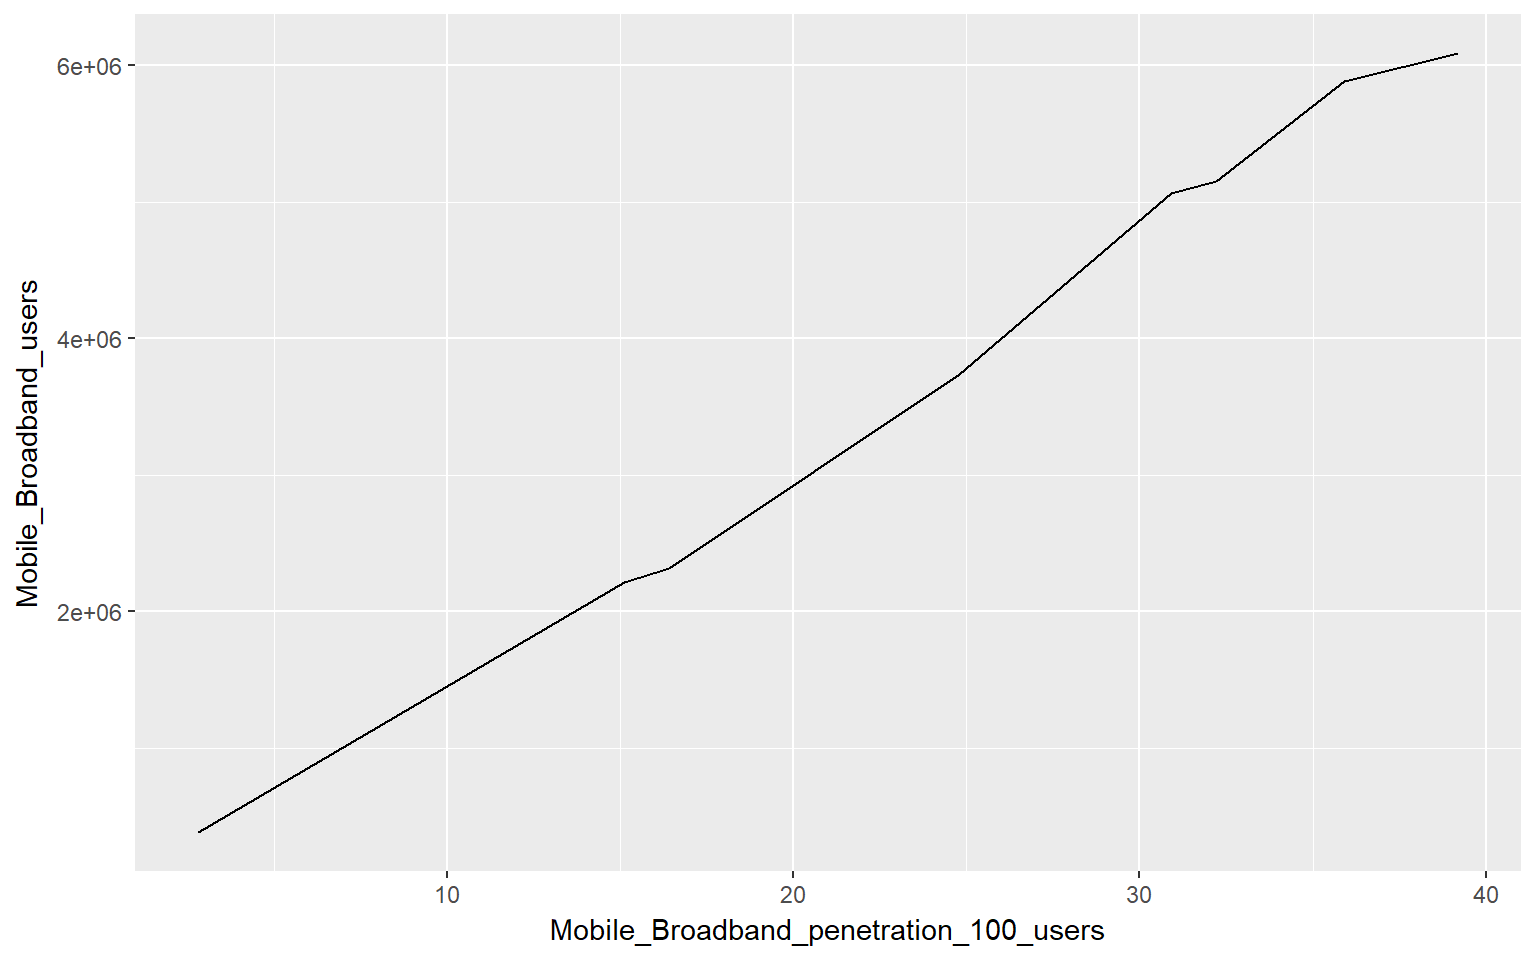
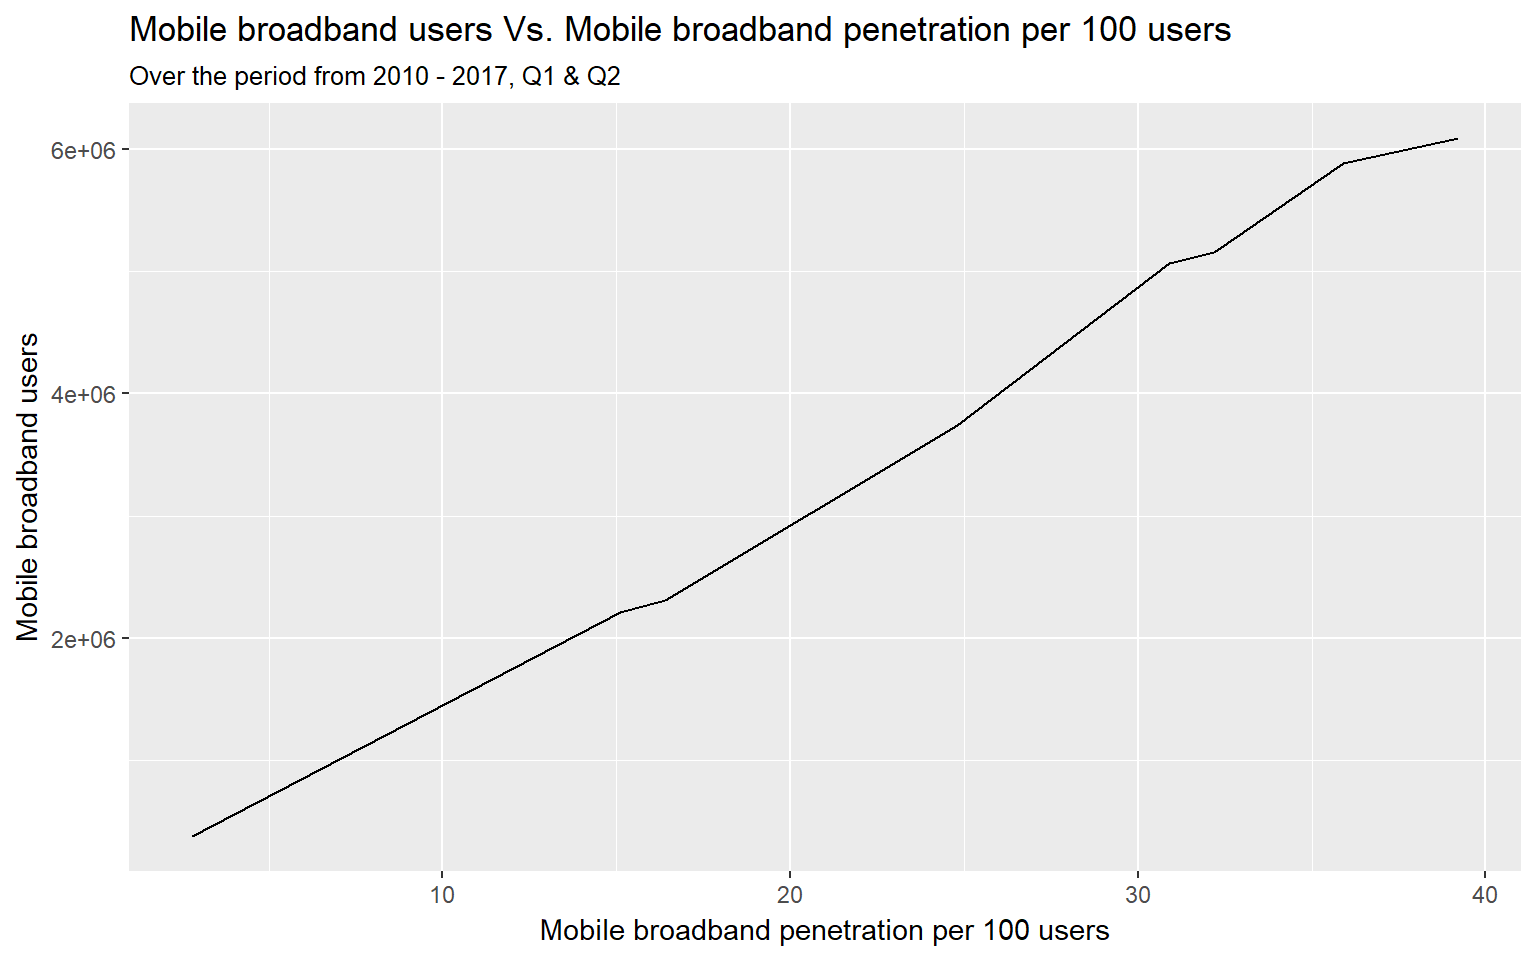
new post

diff --git a/content/post/2017-09-27-mobile-and-internet-penetration-in-zambia.html b/content/post/2017-09-27-mobile-and-internet-penetration-in-zambia.html
@@ -68,9 +68,9 @@ head(network_coverage, 4)</code></pre>
 ## [16] &quot;SMS_MMS_traffic&quot;                                
 ## [17] &quot;Minutes_of_use_Monthly&quot;                         
 ## [18] &quot;Voice_on_net_peak_Mobile&quot;                       
-## [19] &quot;Voice_on_net_of_ peak_Mobile&quot;                   
+## [19] &quot;Voice_on_net_off_peak_Mobile&quot;                   
 ## [20] &quot;Voice_off_net_peak_Mobile&quot;                      
-## [21] &quot;Voice_off_net_off_peak _Mobile&quot;                 
+## [21] &quot;Voice_off_net_off_peak_Mobile&quot;                  
 ## [22] &quot;Voice_on_net_peak_Fixed&quot;                        
 ## [23] &quot;Voice_on_net_off_peak_Fixed&quot;                    
 ## [24] &quot;Voice_off_net_peak_Fixed&quot;                       
@@ -221,9 +221,9 @@ ggplot() +
 <pre class="r"><code>network_cover &lt;-  network_coverage %&gt;% 
   select(Year, Airtel_Zambia, MTN_Zambia, Zamtel) 
 knitr::kable(network_cover, booktabs = TRUE, 
-             caption = &quot;Percentage network coverage by Operator&quot;)  </code></pre>
+             caption = &quot;Percentage network coverage by operator&quot;)  </code></pre>
 <table>
-<caption><span id="tab:unnamed-chunk-14">Table 1: </span>Percentage network coverage by Operator</caption>
+<caption><span id="tab:unnamed-chunk-14">Table 1: </span>Percentage network coverage by operator</caption>
 <thead>
 <tr class="header">
 <th align="right">Year</th>
@@ -299,7 +299,13 @@ knitr::kable(network_cover, booktabs = TRUE,
 <pre class="r"><code>operator_stats %&gt;% 
   ggplot() +
   geom_line(aes(x = Mobile_Broadband_penetration_100_users,
-                y = Mobile_Broadband_users))</code></pre>
+                y = Mobile_Broadband_users)) +
+  labs(
+    x = &quot;Mobile broadband penetration per 100 users&quot;, 
+    y = &quot;Mobile broadband users&quot;
+  ) + 
+  ggtitle(&quot;Mobile broadband users Vs. Mobile broadband penetration per 100 users&quot;,
+           subtitle = &quot;Over the period from 2010 - 2017, Q1 &amp; Q2&quot;)</code></pre>
 <pre><code>## Warning: Removed 1 rows containing missing values (geom_path).</code></pre>
 <p><img src="/post/2017-09-27-mobile-and-internet-penetration-in-zambia_files/figure-html/unnamed-chunk-16-1.png" width="768" /></p>
 </div>
@@ -308,7 +314,12 @@ knitr::kable(network_cover, booktabs = TRUE,
 <pre class="r"><code>isps %&gt;% 
   ggplot() +
   geom_line(aes(x = Fixed_internet_Penetration_per_100,
-                y = Number_of_Subscribers))</code></pre>
+                y = Number_of_Subscribers)) +
+  labs( 
+    x = &quot;Fixed internet penetration per 100 inhabitants&quot;,
+    y = &quot;Number of subscribers&quot;) +
+   ggtitle(&quot;Fixed internet penetration per 100 inhabitants Vs. Number of subscribers&quot;,
+           subtitle = &quot;Over the period from 2010 - 2017, Q1 &amp; Q2&quot;)</code></pre>
 <p><img src="/post/2017-09-27-mobile-and-internet-penetration-in-zambia_files/figure-html/unnamed-chunk-17-1.png" width="768" /></p>
 </div>
 <div id="cost-differentials" class="section level2">
@@ -317,13 +328,13 @@ knitr::kable(network_cover, booktabs = TRUE,
   ggplot() + 
   geom_line(aes(x = Year, y = Voice_Tariff_Mobile), color = &quot;red&quot;) +
   annotate(&quot;text&quot;,x= 2013,y=0.55,label=&quot;Mobile voice tariff&quot;,
-           fontface=&quot;bold&quot;,size=2, colour = &quot;forestgreen&quot;) +
+           fontface=&quot;bold&quot;,size = 3, colour = &quot;forestgreen&quot;) +
   geom_line(aes(x = Year, y = SMS_on_net_Mobile), color = &quot;green&quot;) +
   annotate(&quot;text&quot;,x= 2013,y=0.32,label=&quot;SMS on-net tariff&quot;,
-           fontface=&quot;bold&quot;,size=2, colour = &quot;red&quot;) +
+           fontface=&quot;bold&quot;,size = 3, colour = &quot;red&quot;) +
   geom_line(aes(x = Year, y = SMS_off_net_Mobile), color = &quot;yellow&quot;) +
   annotate(&quot;text&quot;,x= 2013,y=0.25,label=&quot;SMS off-net tariff&quot;,
-           fontface=&quot;bold&quot;,size=2, colour = &quot;blue&quot;) +
+           fontface=&quot;bold&quot;,size = 3, colour = &quot;black&quot;) +
   labs(
     x = &quot;year&quot;,
     y = &quot;Mobile Voice tariff/ SMS - on and off net &quot;
@@ -331,4 +342,30 @@ knitr::kable(network_cover, booktabs = TRUE,
   ggtitle(&quot;Mobile voice tariff and SMS tariff - On &amp; Off net&quot;,
           subtitle = &quot;Over the period from 2010 - 2017, Q1 &amp; Q2&quot;)</code></pre>
 <p><img src="/post/2017-09-27-mobile-and-internet-penetration-in-zambia_files/figure-html/unnamed-chunk-18-1.png" width="768" /></p>
+</div>
+<div id="mobile-voice-calls-cost-perminute" class="section level2">
+<h2>Mobile voice calls cost per/minute</h2>
+<pre class="r"><code>operator_stats %&gt;% 
+  ggplot() +
+  geom_line(aes(x = Year, y = Voice_on_net_peak_Mobile), color = &quot;red&quot;) +
+  annotate(&quot;text&quot;,x= 2013,y=1.18,label=&quot;Voice on net peak - Mobile&quot;,
+           fontface=&quot;bold&quot;,size = 3, colour = &quot;black&quot;) +
+  
+  geom_line(aes(x = Year, y = Voice_on_net_off_peak_Mobile), color = &quot;green&quot;) +
+  annotate(&quot;text&quot;,x= 2013,y= 0.9,label=&quot;Voice on net off peak - Mobile&quot;,
+           fontface=&quot;bold&quot;,size = 3, colour = &quot;black&quot;) +
+  
+  geom_line(aes(x = Year, y = Voice_off_net_peak_Mobile), color = &quot;yellow&quot;) +
+  annotate(&quot;text&quot;,x= 2013,y= 1.4,label=&quot;Voice off net peak - Mobile&quot;,
+           fontface=&quot;bold&quot;,size = 3, colour = &quot;black&quot;) +
+  
+  geom_line(aes(x = Year, y = Voice_off_net_off_peak_Mobile), color = &quot;blue&quot;) +
+  annotate(&quot;text&quot;,x= 2013,y=1.22,label=&quot;Voice off net off peak - Mobile&quot;,
+           fontface=&quot;bold&quot;,size = 3, colour = &quot;black&quot;)  +
+  labs(
+    x = &quot;Year&quot;,
+    y = &quot;Voice cost (Kwacha) per min&quot;
+  ) +
+  ggtitle(&quot;Voice cost in Kwachas per minute on mobile&quot;)</code></pre>
+<p><img src="/post/2017-09-27-mobile-and-internet-penetration-in-zambia_files/figure-html/unnamed-chunk-19-1.png" width="768" /></p>
 </div>
